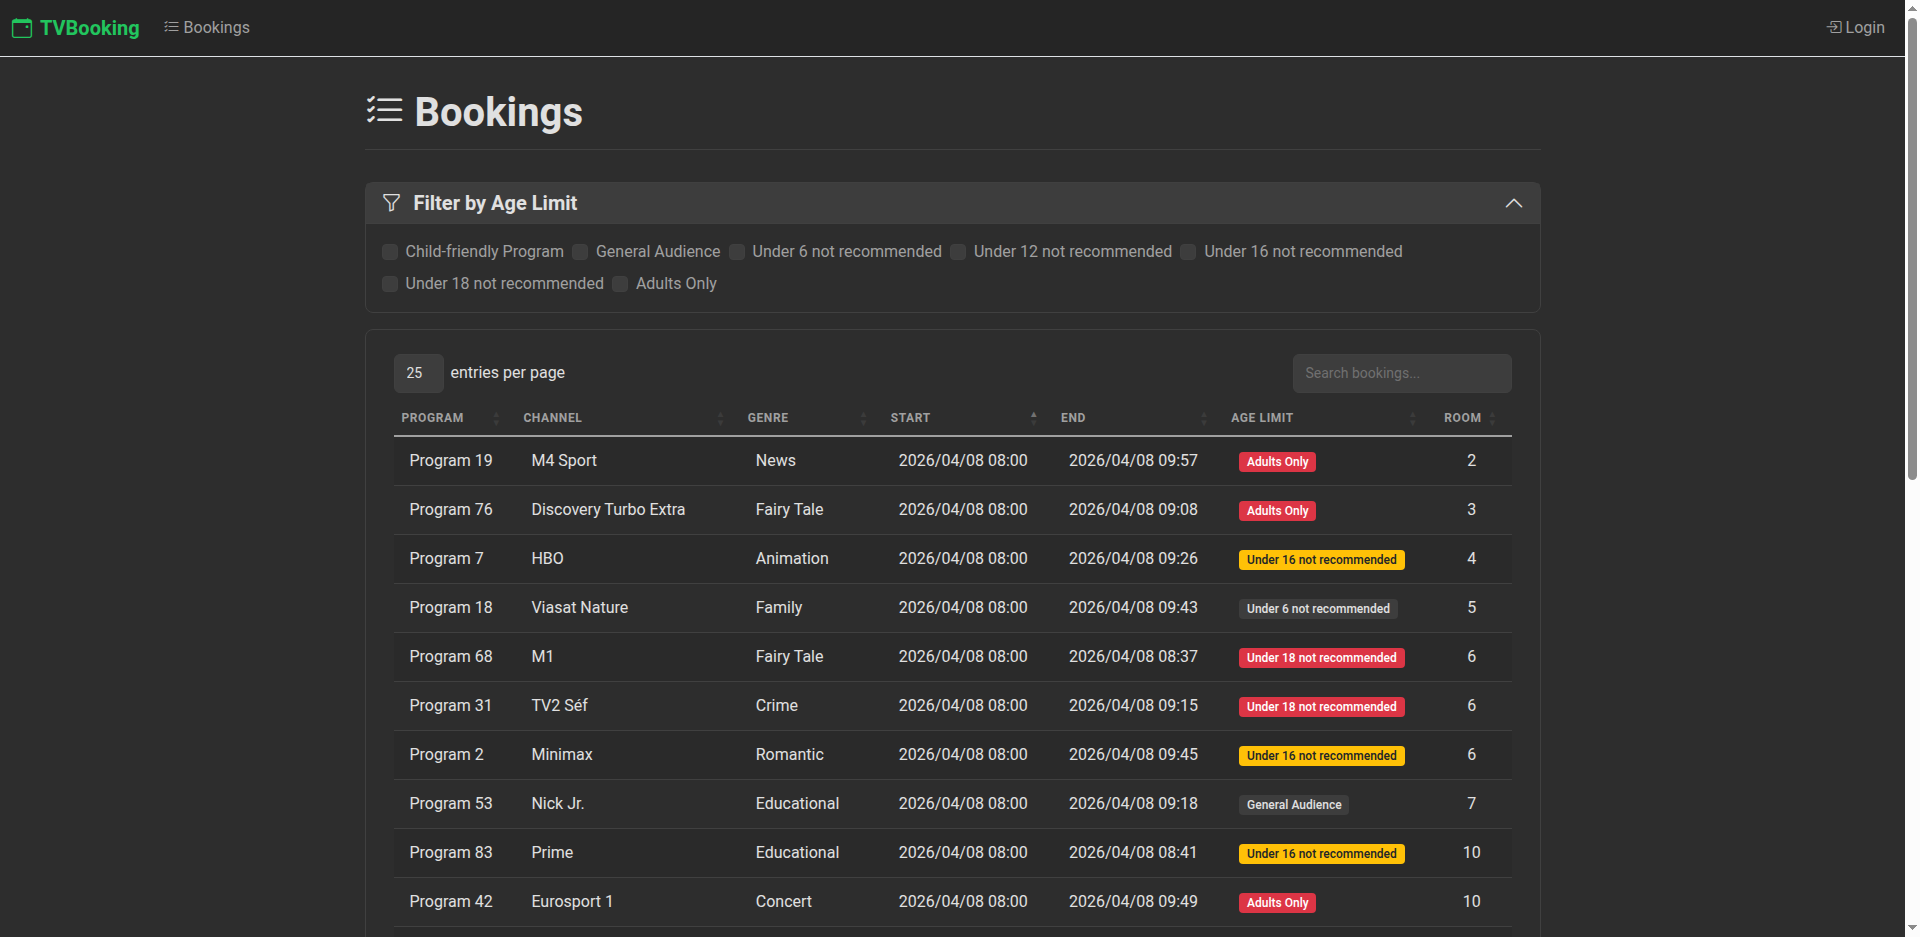
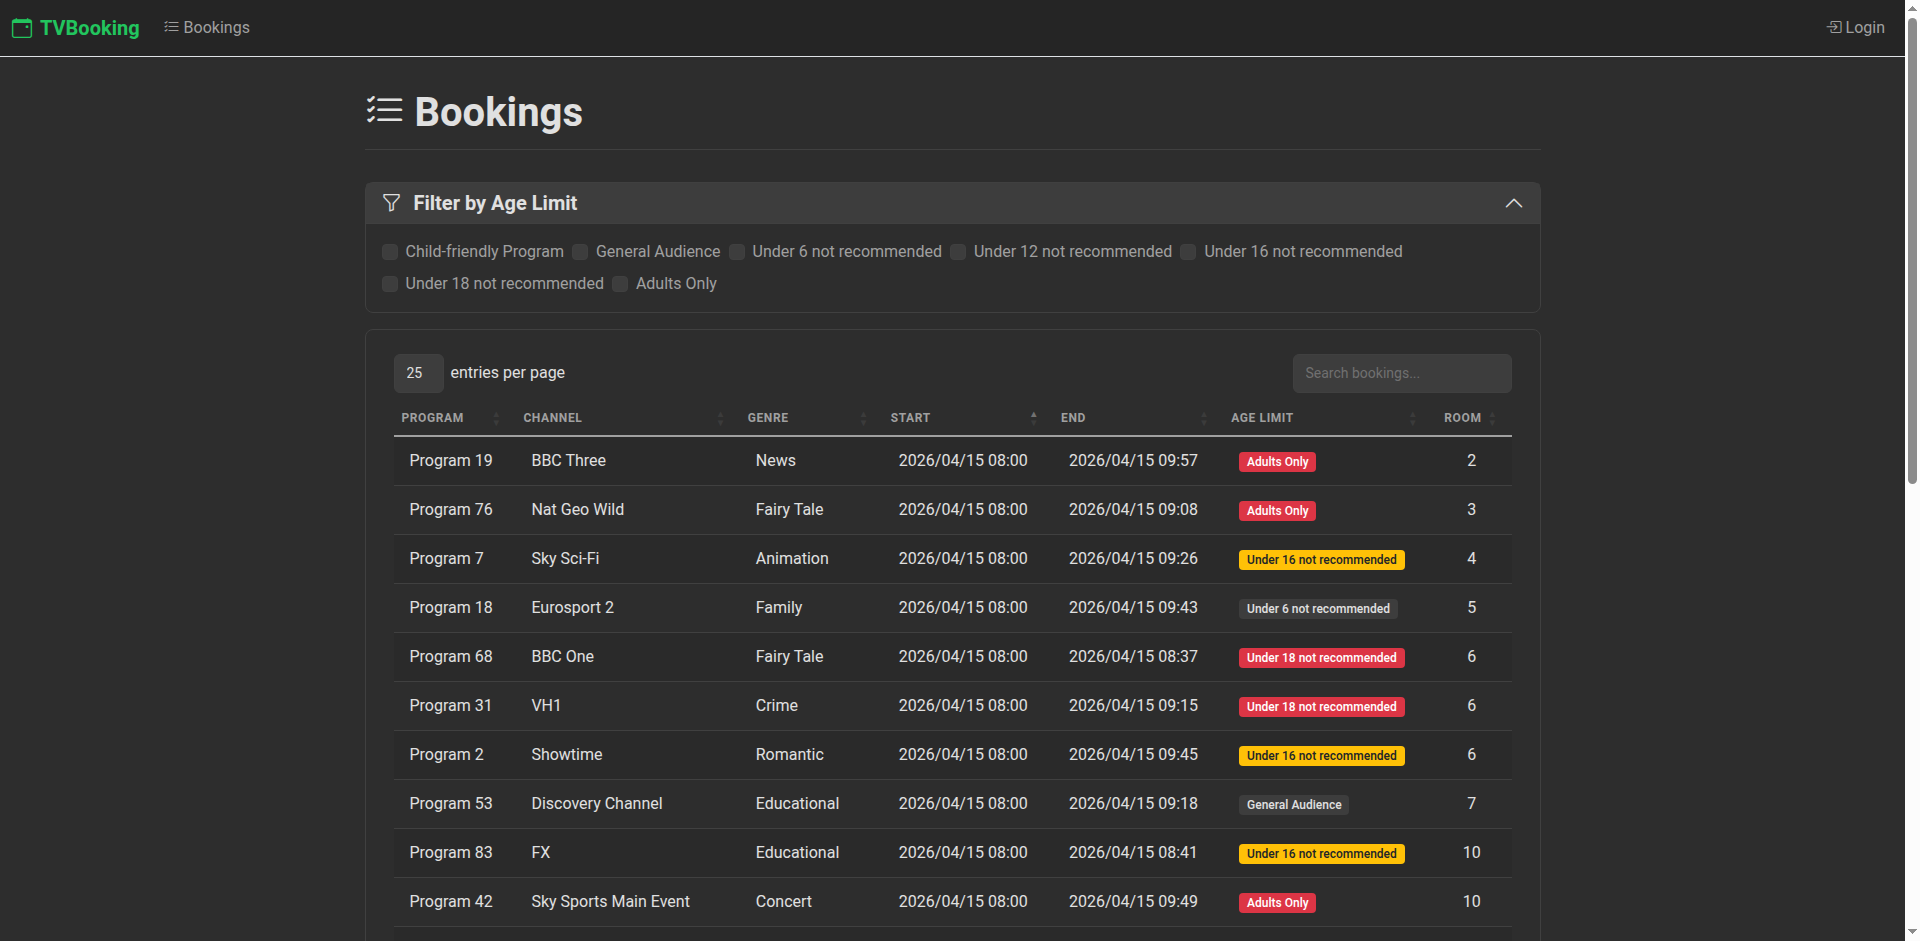
Update to UK/international TV channels and improve Selenium support
- Update README and test data from Hungarian to UK/International channels
- Add Snap-packaged Chromium support to WebDriverFixture
- Add GPU disable flag for headless Chrome testing
- Update and add preview screenshots

diff --git a/TVBookingMVCSelenium/Infrastructure/WebDriverFixture.cs b/TVBookingMVCSelenium/Infrastructure/WebDriverFixture.cs
@@ -11,6 +11,8 @@ public class WebDriverFixture : IDisposable
 
     private static readonly string DownloadedChrome = "/tmp/chromium/chrome-linux64/chrome";
     private static readonly string DownloadedChromeDriver = "/tmp/chromium/chromedriver-linux64/chromedriver";
+    private static readonly string SnapChrome = "/snap/chromium/current/usr/lib/chromium-browser/chrome";
+    private static readonly string SnapChromeDriver = "/snap/chromium/current/usr/lib/chromium-browser/chromedriver";
 
     public WebDriverFixture()
     {
@@ -18,12 +20,19 @@ public class WebDriverFixture : IDisposable
         options.AddArgument("--headless");
         options.AddArgument("--no-sandbox");
         options.AddArgument("--disable-dev-shm-usage");
+        options.AddArgument("--disable-gpu");
 
         if (File.Exists(DownloadedChrome))
         {
             options.BinaryLocation = DownloadedChrome;
             var driverDir = Path.GetDirectoryName(DownloadedChromeDriver)!;
             var service = ChromeDriverService.CreateDefaultService(driverDir);
+            Driver = new ChromeDriver(service, options);
+        }
+        else if (File.Exists(SnapChromeDriver))
+        {
+            options.BinaryLocation = SnapChrome;
+            var service = ChromeDriverService.CreateDefaultService(Path.GetDirectoryName(SnapChromeDriver)!);
             Driver = new ChromeDriver(service, options);
         }
         else

diff --git a/TVBookingMVC.UnitTests/Services/BookingExportServiceTests.cs b/TVBookingMVC.UnitTests/Services/BookingExportServiceTests.cs
@@ -23,7 +23,7 @@ public sealed class BookingExportServiceTests
             {
                 Id = 1,
                 Program = "Morning News",
-                Channel = "M1",
+                Channel = "BBC News",
                 Genre = "News",
                 Start = date.AddHours(8),
                 End = date.AddHours(9),
@@ -60,7 +60,7 @@ public sealed class BookingExportServiceTests
 
         var firstBooking = root.Elements("booking").First();
         Assert.Equal("Morning News", firstBooking.Element("program")?.Value);
-        Assert.Equal("M1", firstBooking.Element("channel")?.Value);
+        Assert.Equal("BBC News", firstBooking.Element("channel")?.Value);
         Assert.Equal("News", firstBooking.Element("genre")?.Value);
         Assert.Equal("2025/06/01 08:00", firstBooking.Element("start")?.Value);
         Assert.Equal("2025/06/01 09:00", firstBooking.Element("end")?.Value);
@@ -98,7 +98,7 @@ public sealed class BookingExportServiceTests
             {
                 Id = 1,
                 Program = "Test",
-                Channel = "M1",
+                Channel = "BBC News",
                 Genre = "News",
                 Start = date.AddHours(8).AddMinutes(5),
                 End = date.AddHours(9).AddMinutes(15),

diff --git a/TVBookingMVC.UnitTests/Services/BookingQueryServiceTests.cs b/TVBookingMVC.UnitTests/Services/BookingQueryServiceTests.cs
@@ -465,7 +465,7 @@ public sealed class BookingQueryServiceTests
         await BookingTestData.SeedRoomAsync(context, 2);
         await BookingTestData.SeedBookingAsync(context, BookingTestData.CreateValidBooking(channel: "HBO", genre: "Action", roomNumber: 2));
         await BookingTestData.SeedBookingAsync(context, BookingTestData.CreateValidBooking(channel: "HBO", genre: "Action", roomNumber: 2));
-        await BookingTestData.SeedBookingAsync(context, BookingTestData.CreateValidBooking(channel: "M1", genre: "Comedy", roomNumber: 2));
+        await BookingTestData.SeedBookingAsync(context, BookingTestData.CreateValidBooking(channel: "BBC News", genre: "Comedy", roomNumber: 2));
 
         var result = await service.GetStatisticsAsync(
             dateFrom: DateTime.UtcNow.AddDays(-1), dateTo: DateTime.UtcNow.AddDays(10));

diff --git a/README.md b/README.md
@@ -44,8 +44,8 @@ ASP.NET Core MVC app for scheduling a hotel's communal TV. Guests reserve time s
 ### Booking Management
 - **Create bookings** with program name, channel, genre, start/end times, age rating, and room number
 - **Edit/delete** existing bookings with ownership checks
-- **74 Hungarian TV channels** (M1, RTL, HBO, Discovery, National Geographic, Eurosport, and more)
-- **29 genres** (Action, Documentary, Comedy, Sports, Kids, News, etc.)
+- **56 UK & international TV channels** (BBC, ITV, Sky, HBO, ESPN, National Geographic, Eurosport, and more)
+- **29 genres** (Action, Comedy, Documentary, Drama, Sports, News, etc.)
 - **7 age rating categories** (Child-friendly through Adults Only)
 
 ### Smart Scheduling
